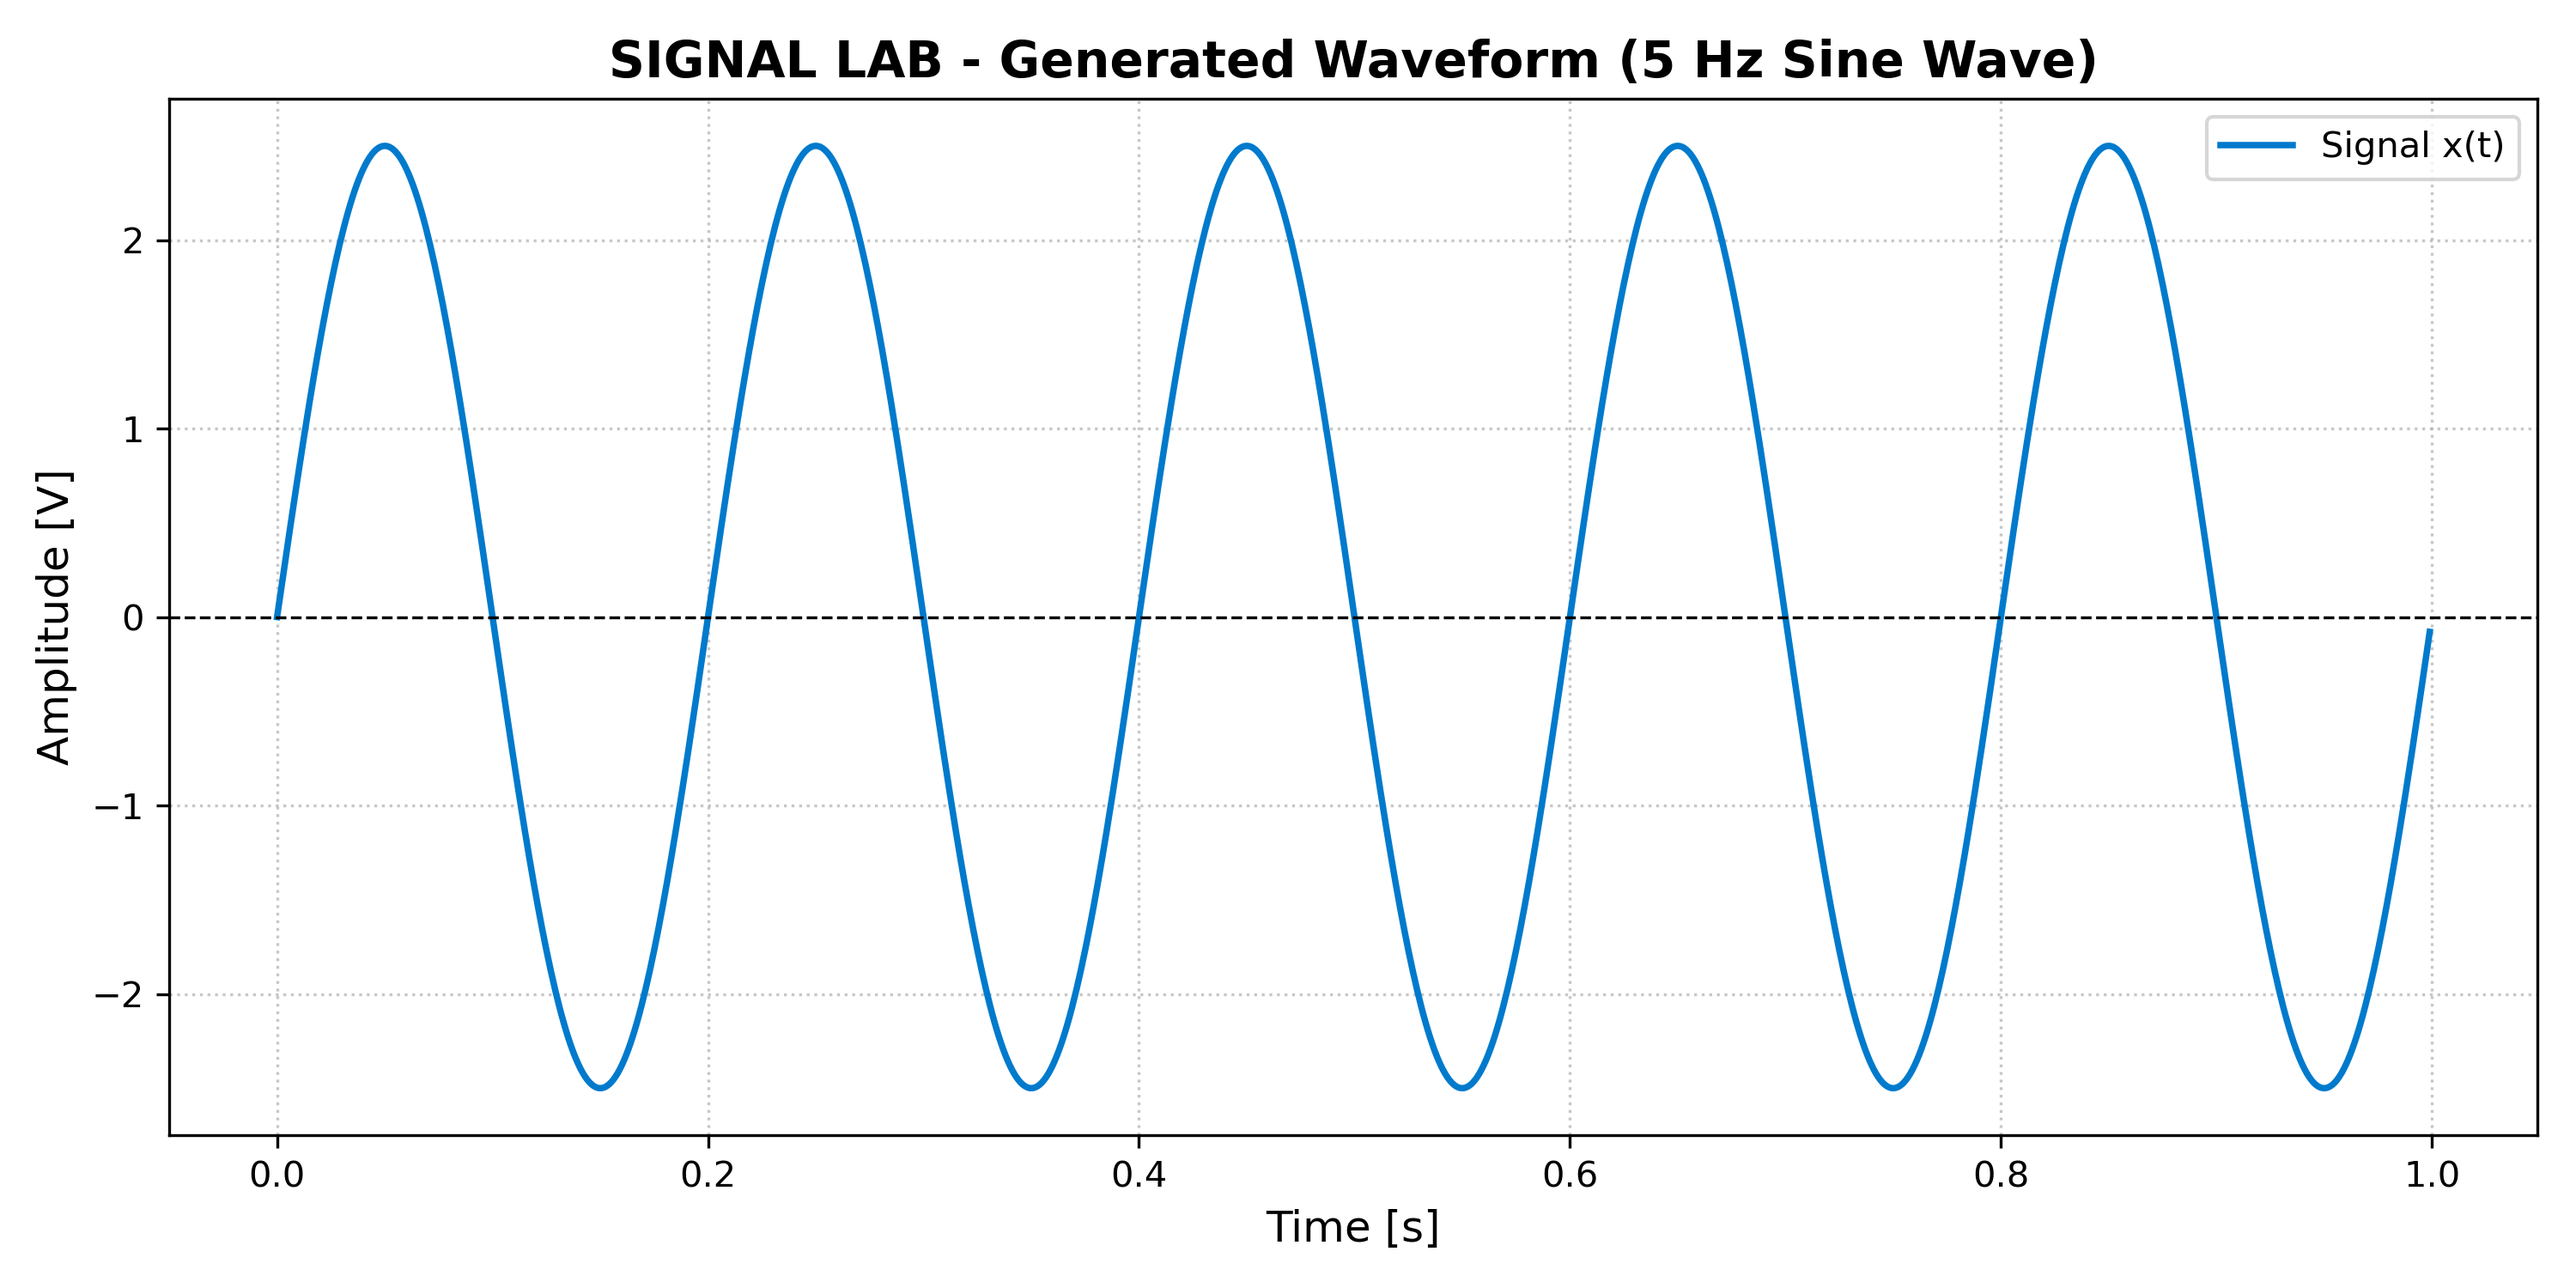
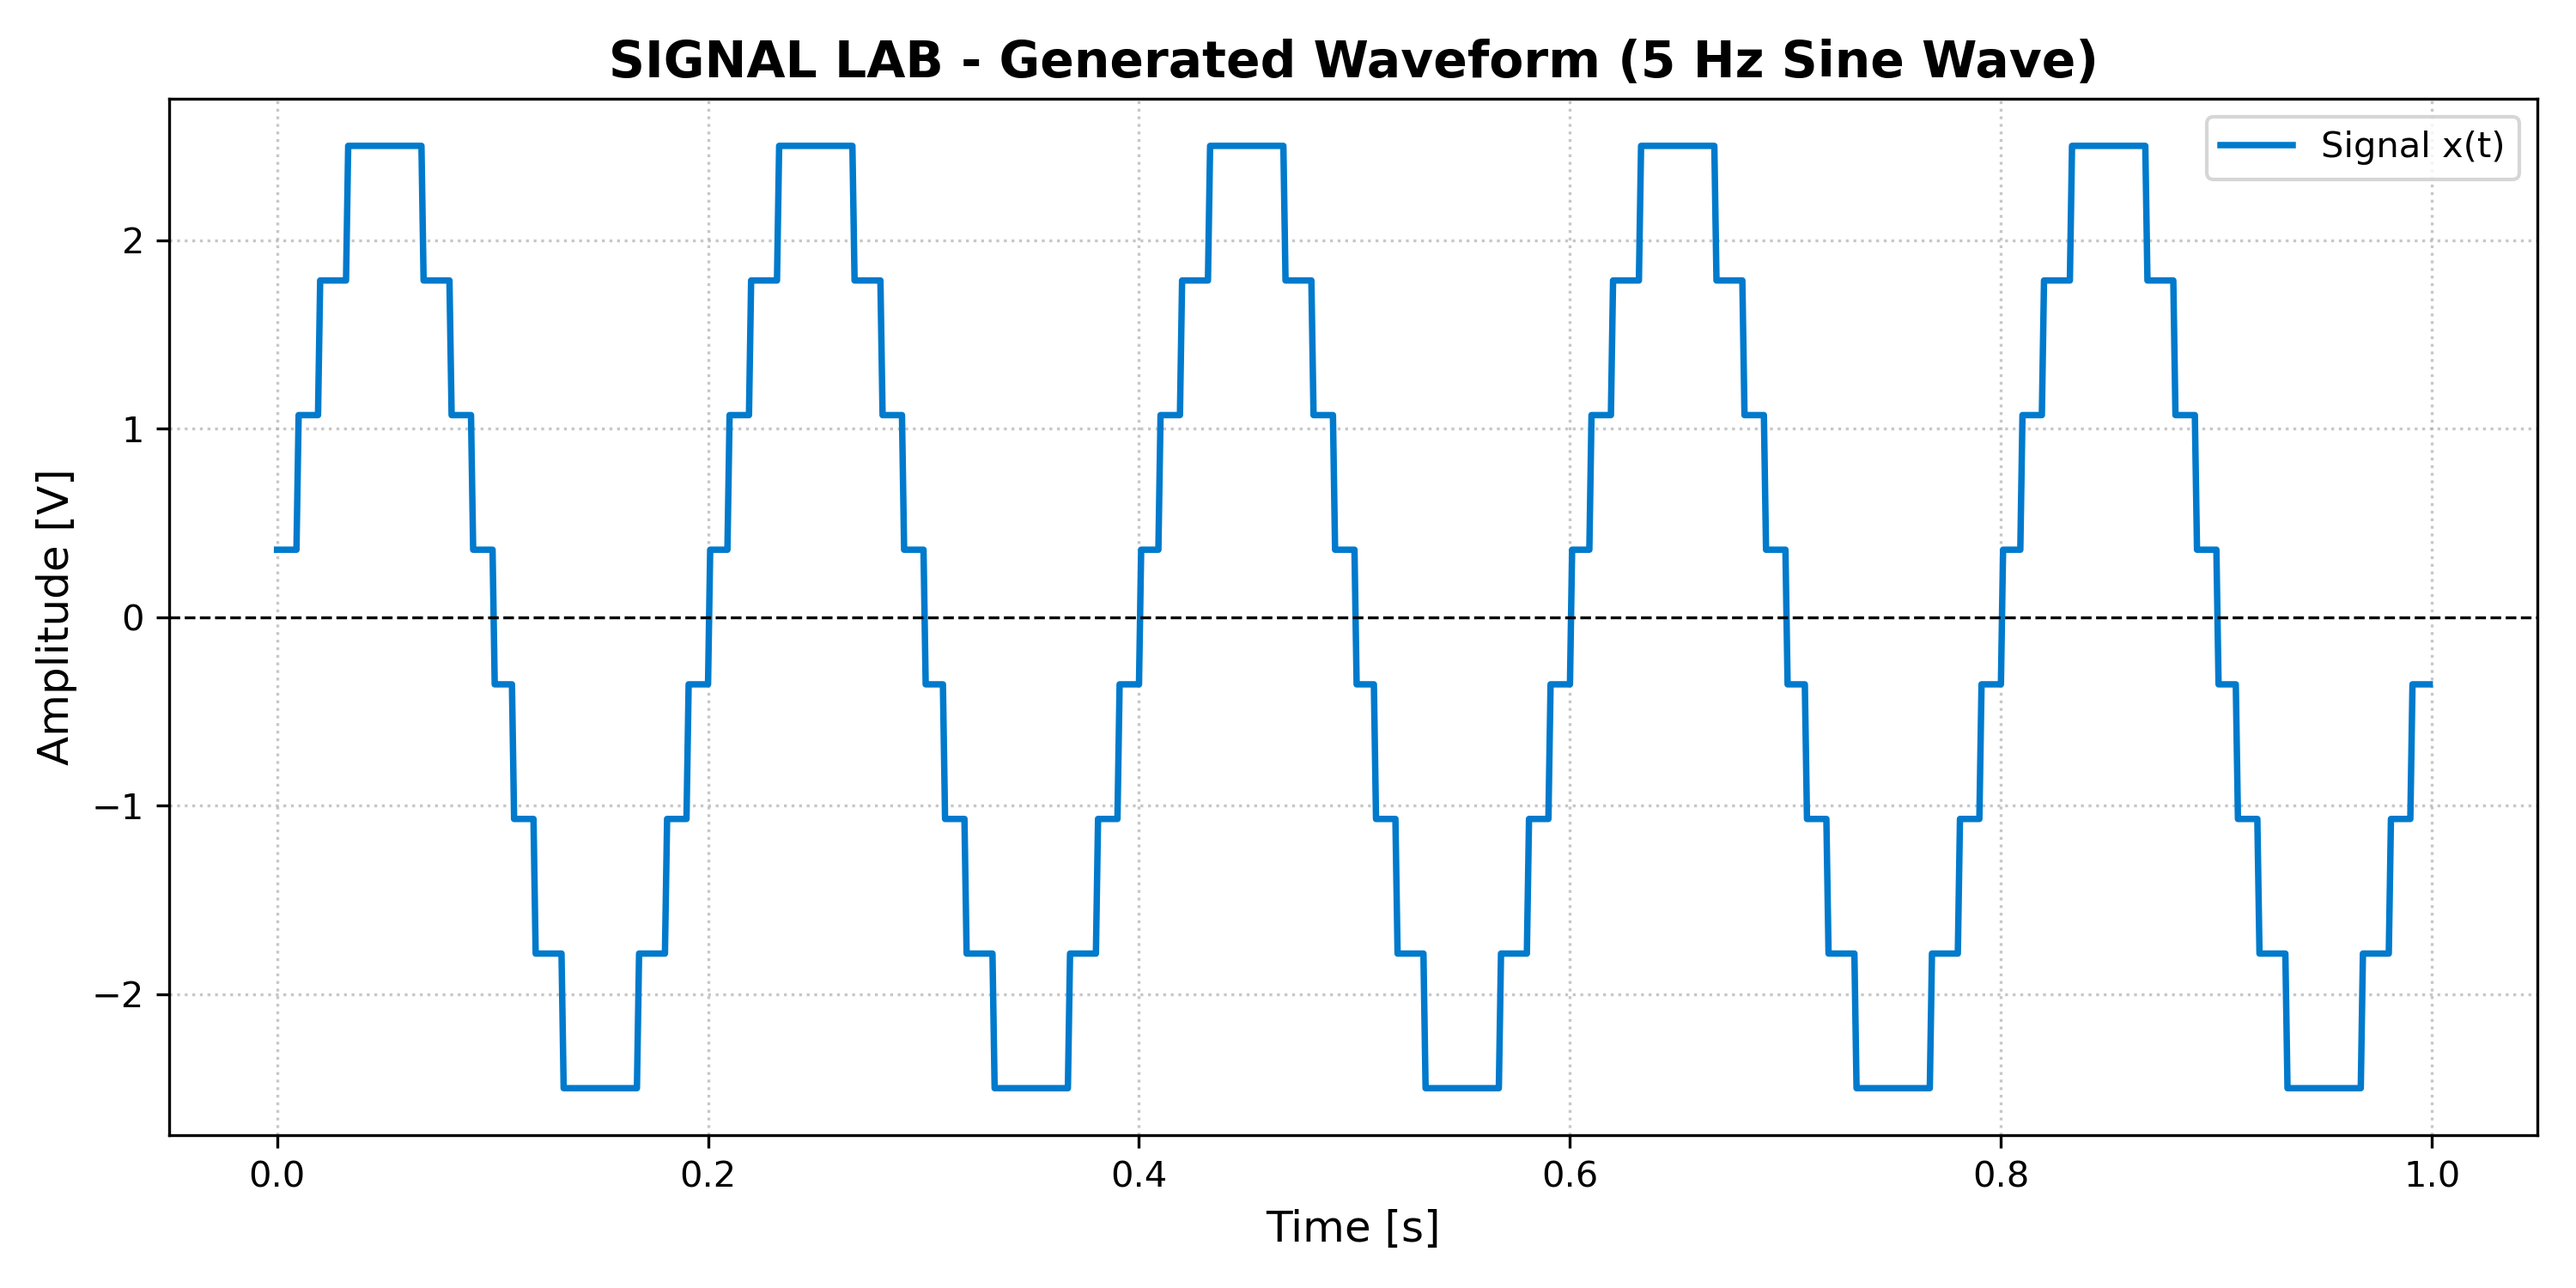
feat(sampling): implement downsampling and N-bit uniform ADC quantization

diff --git a/src/sampling.c b/src/sampling.c
@@ -1,0 +1,79 @@
+/*
+ * Project: SIGNAL LAB
+ * File: sampling.c
+ * Description: Implementation of downsampling (decimation) and uniform N-bit ADC quantization
+ * Author: Ibrahim
+ * Date: November 2026
+ */
+
+#include "../include/sampling.h"
+#include <math.h>
+
+/**
+ * @brief Downsamples an input signal to a lower target sampling frequency (fs).
+ */
+Signal *downsample_signal(const Signal *input, double target_sample_rate) {
+    /* Validate input pointer and ensure target rate is strictly positive and <= source rate */
+    if (input == NULL || input->samples == NULL ||
+        target_sample_rate <= 0.0 || target_sample_rate > input->sample_rate) {
+        return NULL;
+    }
+
+    /* Compute decimation factor (take 1 sample every 'step' samples) */
+    size_t step = (size_t)round(input->sample_rate / target_sample_rate);
+    if (step == 0) {
+        step = 1;
+    }
+
+    /* Compute resulting number of samples */
+    size_t new_length = input->length / step;
+    if (new_length == 0) {
+        return NULL;
+    }
+
+    /* Allocate new downsampled Signal structure */
+    Signal *output = create_signal(new_length, input->sample_rate / (double)step);
+    if (output == NULL) {
+        return NULL;
+    }
+
+    /* Copy decimated samples */
+    for (size_t i = 0; i < new_length; i++) {
+        output->samples[i] = input->samples[i * step];
+    }
+
+    return output;
+}
+
+/**
+ * @brief Quantizes signal amplitudes into 2^bits discrete levels (uniform ADC).
+ */
+int quantize_signal(Signal *sig, uint8_t bits, double v_min, double v_max) {
+    /* Defensive check: ADC bit depth must be between 1 and 16 bits, and v_max > v_min */
+    if (sig == NULL || sig->samples == NULL || bits == 0 || bits > 16 || v_max <= v_min) {
+        return -1;
+    }
+
+    /* Compute 2^bits discrete levels using fast bitwise shift */
+    uint32_t levels = (1U << bits);
+    double step_size = (v_max - v_min) / (double)(levels - 1);
+
+    for (size_t i = 0; i < sig->length; i++) {
+        double val = sig->samples[i];
+
+        /* Step 1: Clamp input voltage within [v_min, v_max] */
+        if (val < v_min) {
+            val = v_min;
+        } else if (val > v_max) {
+            val = v_max;
+        }
+
+        /* Step 2: Map voltage to nearest discrete quantization level index */
+        double level_index = round((val - v_min) / step_size);
+
+        /* Step 3: Reconstruct quantized voltage */
+        sig->samples[i] = v_min + level_index * step_size;
+    }
+
+    return 0;
+}

diff --git a/include/sampling.h b/include/sampling.h
@@ -1,0 +1,35 @@
+/*
+ * Project: SIGNAL LAB
+ * File: sampling.h
+ * Description: Analog-to-Digital Conversion (ADC) simulation: downsampling and N-bit quantization
+ * Author: Ibrahim
+ * Date: November 2026
+ */
+
+#ifndef SAMPLING_H
+#define SAMPLING_H
+
+#include "signal.h"
+#include <stdint.h>
+
+/**
+ * @brief Downsamples an input signal to a lower target sampling frequency (fs).
+ * 
+ * @param input Constant pointer to the high-resolution source Signal.
+ * @param target_sample_rate Desired new sampling frequency in Hz (must be <= input->sample_rate).
+ * @return Pointer to a newly allocated downsampled Signal, or NULL on invalid parameters.
+ */
+Signal *downsample_signal(const Signal *input, double target_sample_rate);
+
+/**
+ * @brief Quantizes signal amplitudes into 2^bits discrete levels (uniform mid-tread ADC).
+ * 
+ * @param sig Pointer to the Signal structure to quantize in-place.
+ * @param bits ADC bit depth resolution (e.g., 3, 8, 12, 16 bits; valid range: 1 to 16).
+ * @param v_min Minimum voltage rail of the ADC (e.g., -5.0 V).
+ * @param v_max Maximum voltage rail of the ADC (e.g., +5.0 V).
+ * @return 0 on success, -1 if parameters are invalid.
+ */
+int quantize_signal(Signal *sig, uint8_t bits, double v_min, double v_max);
+
+#endif /* SAMPLING_H */

diff --git a/src/main.c b/src/main.c
@@ -9,6 +9,7 @@
 #include "../include/signal.h"
 #include "../include/generator.h"
 #include <stdio.h>
+#include "../include/sampling.h"
 
 int main(void) {
     /* Create a 1-second signal sampled at 1000 Hz (1000 samples) */
@@ -24,6 +25,8 @@ int main(void) {
         free_signal(sig);
         return 1;
     }
+    quantize_signal(sig, 3, -2.5, 2.5); 
+
 
     /* Export generated samples to CSV */
     if (export_signal_csv(sig, "data/signal.csv") != 0) {
